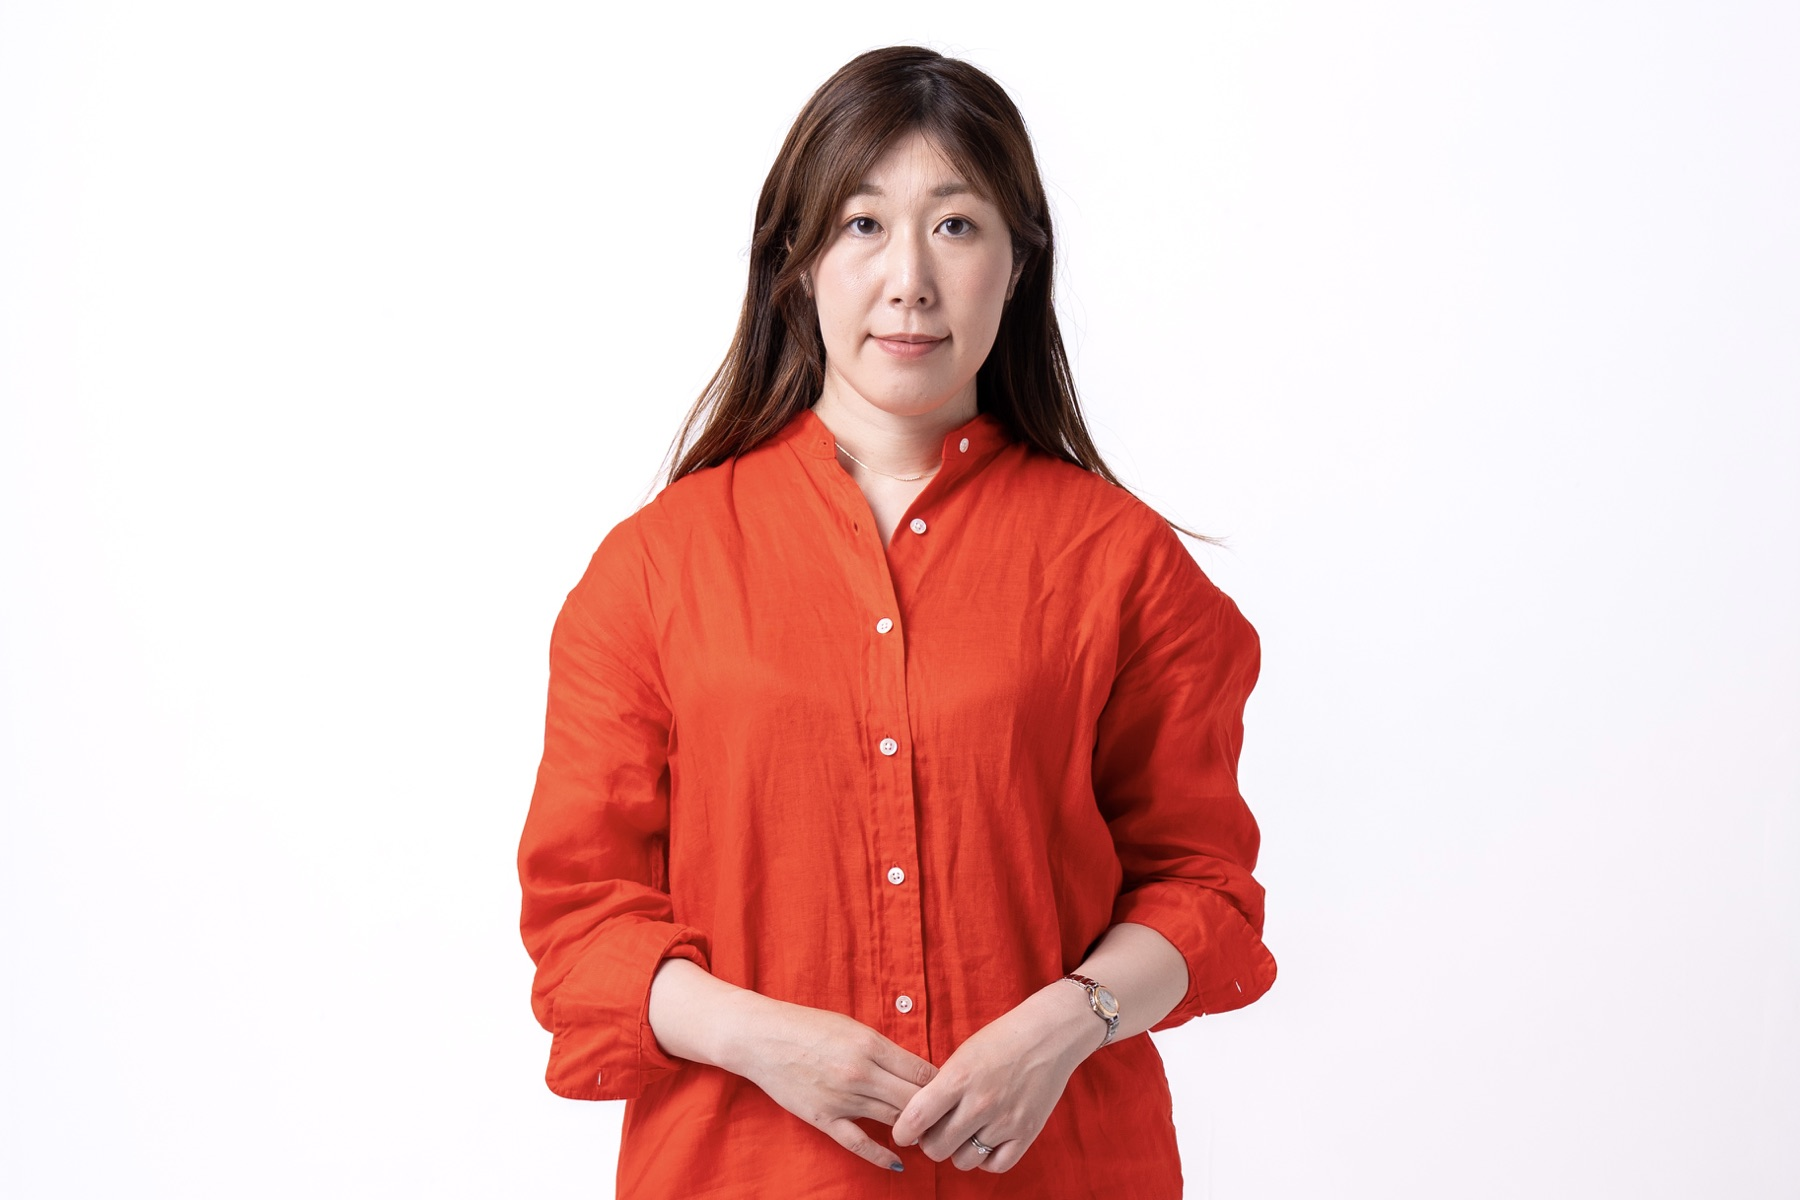
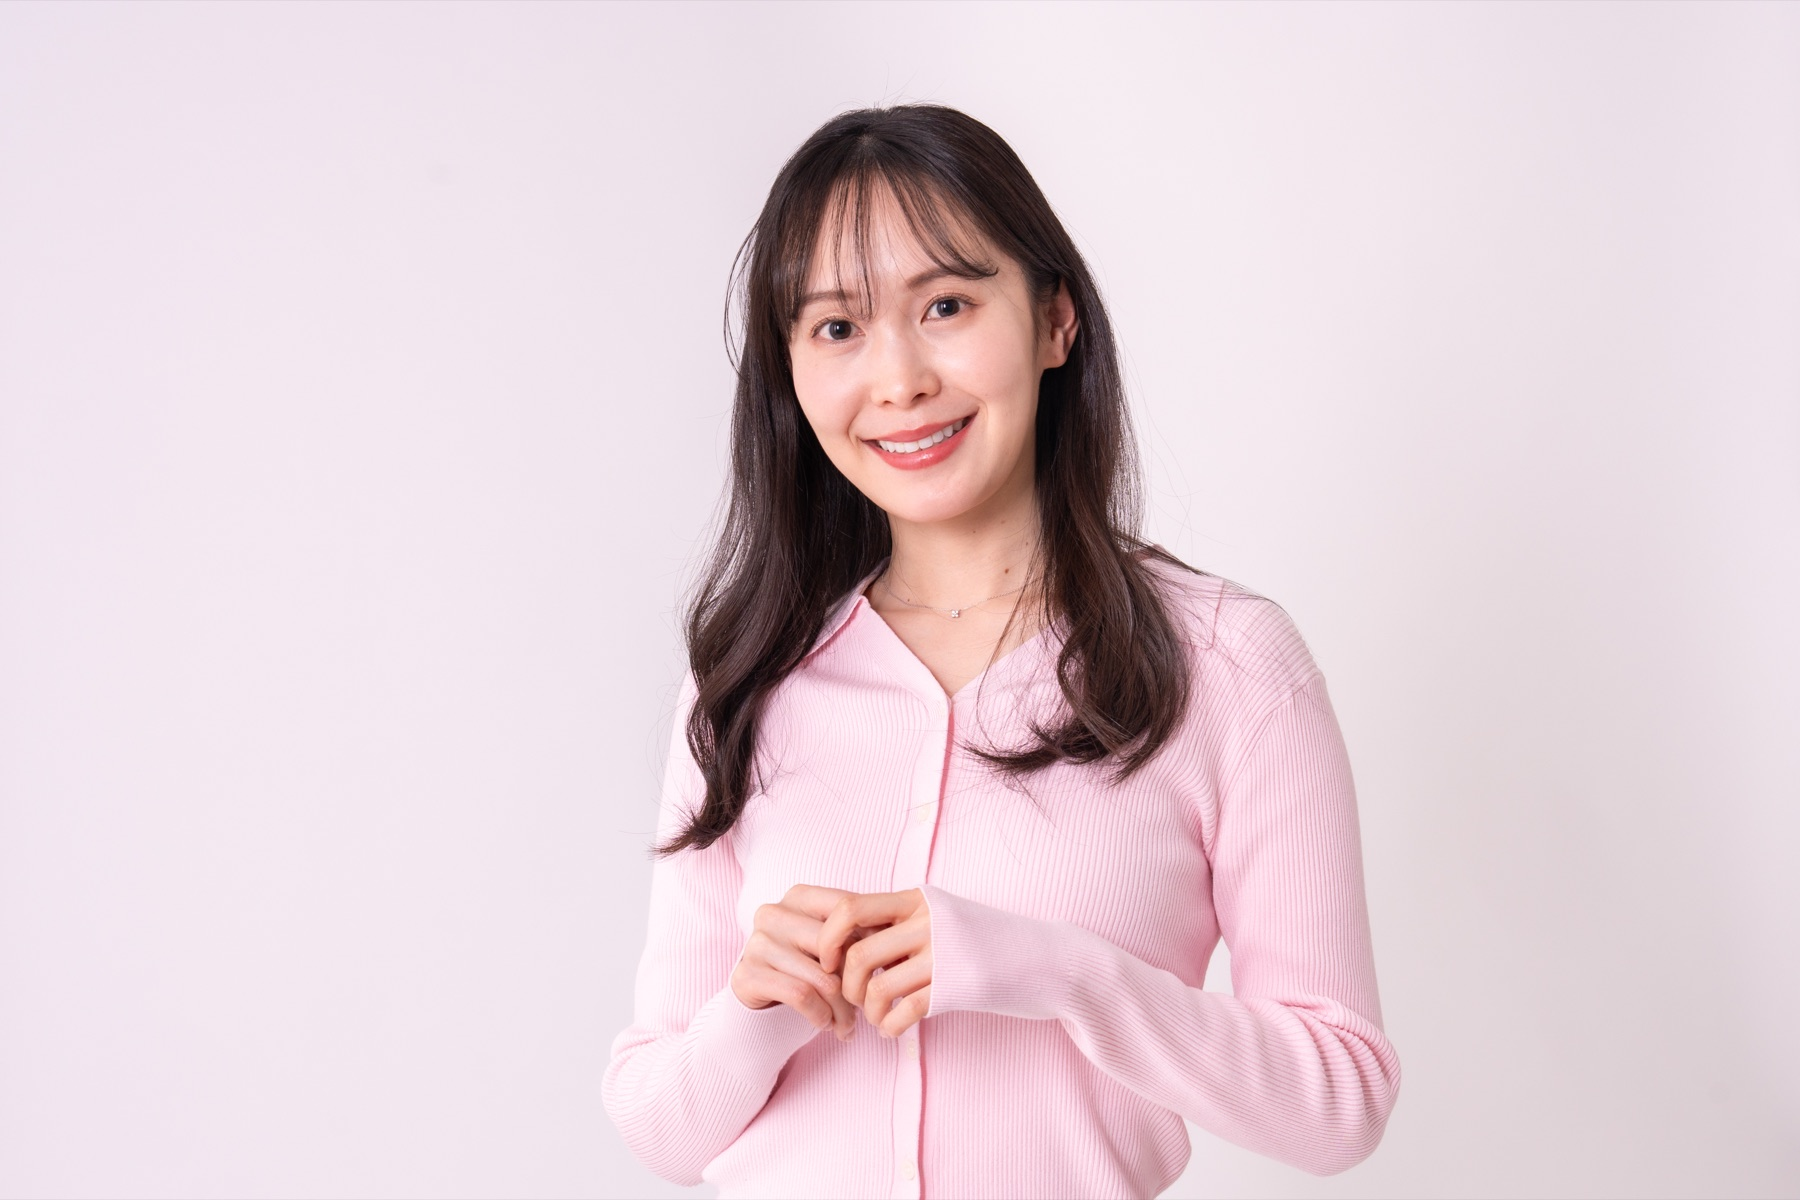
Update top profile card image

diff --git a/index.html b/index.html
@@ -46,7 +46,7 @@
           </a>
           <a class="tk-menu-card tk-menu-card--link tk-menu-card--profile" href="/profile/" data-reveal>
             <figure class="tk-menu-card__image">
-              <img src="/images/photo-profile-card.jpg" alt="プロフィール写真のイメージ">
+              <img src="/images/photo-profile-card.jpg?v=2" alt="プロフィール写真のイメージ">
             </figure>
             <span>Profile Photo</span>
             <h3>プロフィール写真</h3>
